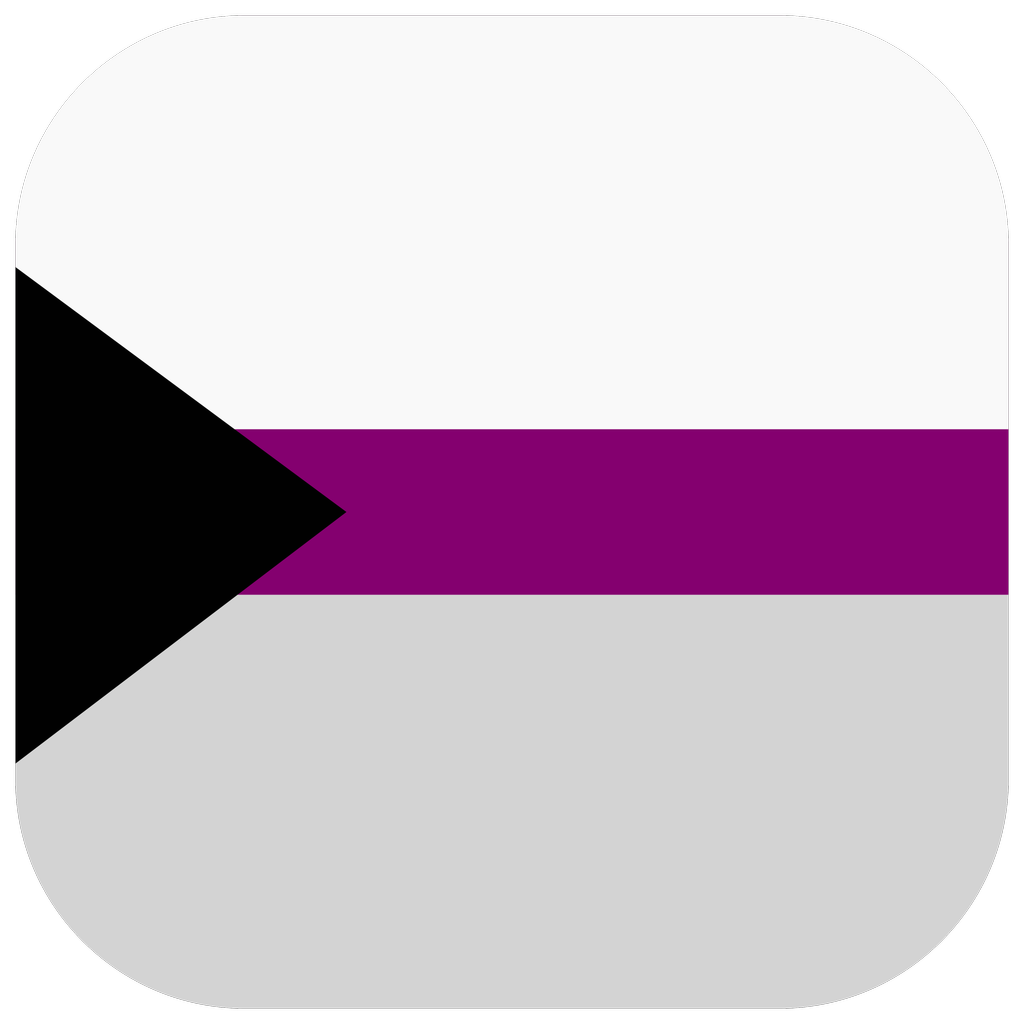
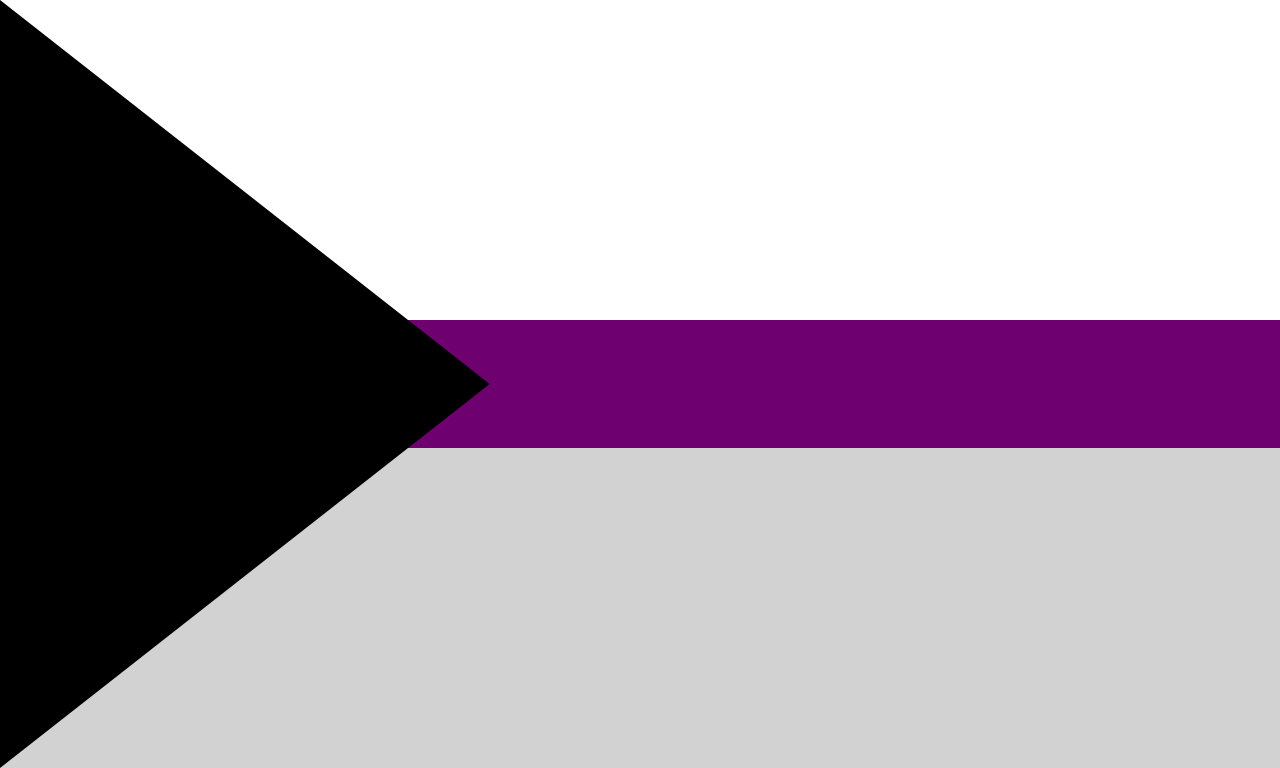
fix(brand): source pride flags from Wikimedia Commons

Changed region(s): [[0.0, 0.0, 1.0, 1.0]]

diff --git a/apps/macos/VerlinPark/Core/FlagCatalog.swift b/apps/macos/VerlinPark/Core/FlagCatalog.swift
@@ -1,8 +1,8 @@
 import AppKit
 import SwiftUI
 
-/// CC0 pride flag artwork from Yellow-Dog-Man/PrideFlags.
-/// `rawValue` is persisted in brand settings; do not rename cases.
+/// Pride flag artwork from Wikimedia Commons.
+/// Per-file attribution and licenses: `docs/PRIDE_FLAGS.md`.
 enum PrideFlag: String, Codable, CaseIterable, Identifiable, Hashable {
     case rainbow
     case progress
@@ -56,9 +56,9 @@ enum PrideFlag: String, Codable, CaseIterable, Identifiable, Hashable {
 
     var assetName: String {
         switch self {
-        case .rainbow: "PrideFlag_Traditional"
+        case .rainbow: "PrideFlag_rainbow"
         case .progress: "PrideFlag_Progress"
-        case .intersexProgress: "PrideFlag_Intersex-InclusiveProgress"
+        case .intersexProgress: "PrideFlag_intersexProgress"
         case .transgender: "PrideFlag_Transgender"
         case .bisexual: "PrideFlag_Bisexual"
         case .lesbian: "PrideFlag_Lesbian"
@@ -77,6 +77,38 @@ enum PrideFlag: String, Codable, CaseIterable, Identifiable, Hashable {
         case .queer: "PrideFlag_Queer"
         case .twoSpirit: "PrideFlag_TwoSpirit"
         }
+    }
+
+    var sourceTitle: String {
+        switch self {
+        case .rainbow: "Gay Pride Flag.svg"
+        case .progress: "LGBTQ+ rainbow flag Quasar \"Progress\" variant.svg"
+        case .intersexProgress: "Intersex-inclusive pride flag.svg"
+        case .transgender: "Transgender Pride flag.svg"
+        case .bisexual: "Bisexual Pride Flag.svg"
+        case .lesbian: "Lesbian Pride Flag 2019.svg"
+        case .nonbinary: "Non-binary Pride Flag.png"
+        case .pansexual: "Pansexual Pride Flag (3-2 aspect ratio).svg"
+        case .asexual: "Asexual Pride Flag.svg"
+        case .aromantic: "Aromantic Pride Flag.svg"
+        case .aroace: "Aroace flag.svg"
+        case .genderfluid: "Genderfluid Flag (Square).png"
+        case .genderqueer: "Genderqueer Pride Flag.svg"
+        case .intersex: "Intersex Pride Flag.svg"
+        case .agender: "Agender pride flag.svg"
+        case .demisexual: "Demisexual Pride Flag.svg"
+        case .polyamory: "Polyamory flag with infinity heart.svg"
+        case .sapphic: "Sapphic pride flag.svg"
+        case .queer: "Queer pride flag.svg"
+        case .twoSpirit: "Two-Spirit Flag.svg"
+        }
+    }
+
+    var sourceURL: URL? {
+        let encoded = sourceTitle.addingPercentEncoding(
+            withAllowedCharacters: .urlPathAllowed
+        ) ?? sourceTitle
+        return URL(string: "https://commons.wikimedia.org/wiki/File:\(encoded)")
     }
 
     var image: NSImage? {

diff --git a/apps/macos/VerlinPark/Features/SettingsView.swift b/apps/macos/VerlinPark/Features/SettingsView.swift
@@ -124,6 +124,10 @@ struct BrandSettingsView: View {
                                 Text("Countries & regions · Pride collection")
                                     .font(.system(size: 9, design: .monospaced))
                                     .foregroundStyle(.secondary)
+                                if let source = brand.config.flag.sourceURL {
+                                    Link("Wikimedia Commons source", destination: source)
+                                        .font(.system(size: 9))
+                                }
                             }
                             Spacer()
                             Button("Choose…") {
@@ -271,7 +275,7 @@ struct FlagPickerView: View {
                 .padding(.vertical, 4)
             }
 
-            Text("Country flags: FlagKit (MIT) · Pride flags: Yellow-Dog-Man/PrideFlags (CC0)")
+            Text("Country flags: FlagKit (MIT) · Pride flags: Wikimedia Commons (see THIRD_PARTY_NOTICES)")
                 .font(.system(size: 8, design: .monospaced))
                 .foregroundStyle(.tertiary)
         }

diff --git a/apps/macos/VerlinParkTests/BrandConfigTests.swift b/apps/macos/VerlinParkTests/BrandConfigTests.swift
@@ -46,7 +46,9 @@ final class BrandConfigTests: XCTestCase {
 
     func testFlagAssetsAreBundled() {
         XCTAssertNotNil(NSImage(named: "US"))
-        XCTAssertNotNil(PrideFlag.progress.image)
-        XCTAssertNotNil(PrideFlag.intersexProgress.image)
+        for flag in PrideFlag.allCases {
+            XCTAssertNotNil(flag.image, "missing pride flag asset: \(flag.assetName)")
+            XCTAssertNotNil(flag.sourceURL)
+        }
     }
 }

diff --git a/apps/macos/VerlinPark/Core/BrandConfig.swift b/apps/macos/VerlinPark/Core/BrandConfig.swift
@@ -30,6 +30,11 @@ enum BrandStyle: String, Codable, CaseIterable, Identifiable {
 enum FlagSelection: Codable, Hashable {
     case country(String)
     case pride(PrideFlag)
+
+    var sourceURL: URL? {
+        guard case let .pride(flag) = self else { return nil }
+        return flag.sourceURL
+    }
 }
 
 struct BrandConfig: Codable, Equatable {

diff --git a/docs/PRIDE_FLAGS.md b/docs/PRIDE_FLAGS.md
@@ -1,0 +1,34 @@
+# Pride flag sources
+
+All pride flag assets are from Wikimedia Commons. Country/region flags are from FlagKit (see [THIRD_PARTY_NOTICES](../THIRD_PARTY_NOTICES.md)).
+
+| Flag | Wikimedia Commons file | Author / credit | License |
+|---|---|---|---|
+| Rainbow | [Gay Pride Flag.svg](https://commons.wikimedia.org/wiki/File:Gay_Pride_Flag.svg) | Guanaco and subsequent editors | Copyrighted free use |
+| Progress Pride | [LGBTQ+ rainbow flag Quasar "Progress" variant.svg](https://commons.wikimedia.org/wiki/File:LGBTQ%2B_rainbow_flag_Quasar_%22Progress%22_variant.svg) | Original Flag: Daniel Quasar SVG: Paul2520 | [CC0](http://creativecommons.org/publicdomain/zero/1.0/deed.en) |
+| Intersex-Inclusive Progress | [Intersex-inclusive pride flag.svg](https://commons.wikimedia.org/wiki/File:Intersex-inclusive_pride_flag.svg) | Nikki | [CC0](http://creativecommons.org/publicdomain/zero/1.0/deed.en) |
+| Transgender | [Transgender Pride flag.svg](https://commons.wikimedia.org/wiki/File:Transgender_Pride_flag.svg) | SVG file Dlloyd based on Monica Helms design | Public domain |
+| Bisexual | [Bisexual Pride Flag.svg](https://commons.wikimedia.org/wiki/File:Bisexual_Pride_Flag.svg) | Michael Page | Public domain |
+| Lesbian | [Lesbian Pride Flag 2019.svg](https://commons.wikimedia.org/wiki/File:Lesbian_Pride_Flag_2019.svg) | Initial SVG file upload by Tmmoney, remade from scratch by AnonMoos. | Public domain |
+| Non-binary | [Non-binary Pride Flag.png](https://commons.wikimedia.org/wiki/File:Non-binary_Pride_Flag.png) | Kye Rowan | [CC0](http://creativecommons.org/publicdomain/zero/1.0/deed.en) |
+| Pansexual | [Pansexual Pride Flag (3-2 aspect ratio).svg](https://commons.wikimedia.org/wiki/File:Pansexual_Pride_Flag_(3-2_aspect_ratio).svg) | Icantthinkofanamexd | Public domain |
+| Asexual | [Asexual Pride Flag.svg](https://commons.wikimedia.org/wiki/File:Asexual_Pride_Flag.svg) | AnonMoos (SVG file); AVEN (flag design) | Public domain |
+| Aromantic | [Aromantic Pride Flag.svg](https://commons.wikimedia.org/wiki/File:Aromantic_Pride_Flag.svg) | Cameron Whimsey | Public domain |
+| Aroace | [Aroace flag.svg](https://commons.wikimedia.org/wiki/File:Aroace_flag.svg) | Original: Jace "Aroaes" Vector: Rummskartoffel | [CC0](http://creativecommons.org/publicdomain/zero/1.0/deed.en) |
+| Genderfluid | [Genderfluid Flag (Square).png](https://commons.wikimedia.org/wiki/File:Genderfluid_Flag_(Square).png) | Yamyamcel | [CC0](http://creativecommons.org/publicdomain/zero/1.0/deed.en) |
+| Genderqueer | [Genderqueer Pride Flag.svg](https://commons.wikimedia.org/wiki/File:Genderqueer_Pride_Flag.svg) | Original: Marilyn Roxie Vector: McLennonSon | Public domain |
+| Intersex | [Intersex Pride Flag.svg](https://commons.wikimedia.org/wiki/File:Intersex_Pride_Flag.svg) | Morgan Carpenter (SVG file simplification by AnonMoos) | Public domain |
+| Agender | [Agender pride flag.svg](https://commons.wikimedia.org/wiki/File:Agender_pride_flag.svg) | Salem Fontana | Public domain |
+| Demisexual | [Demisexual Pride Flag.svg](https://commons.wikimedia.org/wiki/File:Demisexual_Pride_Flag.svg) | Original: Vimopu Vector: AnonMoos | Public domain |
+| Polyamory | [Polyamory flag with infinity heart.svg](https://commons.wikimedia.org/wiki/File:Polyamory_flag_with_infinity_heart.svg) | Opensofias | [CC0](http://creativecommons.org/publicdomain/zero/1.0/deed.en) |
+| Sapphic | [Sapphic pride flag.svg](https://commons.wikimedia.org/wiki/File:Sapphic_pride_flag.svg) | HannahMoss | [CC BY-SA 4.0](https://creativecommons.org/licenses/by-sa/4.0) |
+| Queer | [Queer pride flag.svg](https://commons.wikimedia.org/wiki/File:Queer_pride_flag.svg) | bihetnaomi | [CC0](http://creativecommons.org/publicdomain/zero/1.0/deed.en) |
+| Two-Spirit | [Two-Spirit Flag.svg](https://commons.wikimedia.org/wiki/File:Two-Spirit_Flag.svg) | Dragon401k | [CC BY-SA 4.0](https://creativecommons.org/licenses/by-sa/4.0) |
+
+## Notes
+
+- Wikimedia Commons file pages contain the full attribution and license terms. The table above is a summary.
+- `Public domain` and `CC0` files are used without additional restrictions.
+- `Sapphic` and `Two-Spirit` are CC BY-SA 4.0; attribution is provided above and the license is linked. Those assets remain under CC BY-SA 4.0.
+- `Gay Pride Flag.svg` is listed by Wikimedia Commons as “Copyrighted free use”; see its file page for the exact permission.
+- PNG assets were downloaded as Wikimedia 1024/1280px thumbnails and renamed for the app. No artwork was redrawn.

diff --git a/docs/adr/0013-glass-park-brand.md b/docs/adr/0013-glass-park-brand.md
@@ -13,7 +13,7 @@
 - 视觉：隐藏 titlebar、behind-window blur、thin material、细边框、深色优先；内容区保持较高不透明度。
 - 品牌：`BrandConfig` 支持 displayName、solid/gradient/flag；提供 VerlinPark/Base/Home/Office/Studio/Lab 预设。
 - 国旗：使用 FlagKit（MIT）的 248 个 ISO 国家/地区旗帜资源。
-- Pride：20 面 CC0 PNG 资产（`Yellow-Dog-Man/PrideFlags`），包括 Rainbow、Progress、Intersex-Inclusive Progress、Trans、Bi、Lesbian、Nonbinary、Pan、Ace、Aro、Aroace、Genderfluid、Genderqueer、Intersex、Agender、Demi、Poly、Sapphic、Queer、Two-Spirit。
+- Pride：20 面 Wikimedia Commons 标准旗帜 PNG，包括 Rainbow、Progress、Intersex-Inclusive Progress、Trans、Bi、Lesbian、Nonbinary、Pan、Ace、Aro、Aroace、Genderfluid、Genderqueer、Intersex、Agender、Demi、Poly、Sapphic、Queer、Two-Spirit。每面旗的作者/许可见 `docs/PRIDE_FLAGS.md`。
 - `.app` bundle 名保持 `VerlinPark`；品牌名只影响窗口标题、About、wordmark 和设置。
 - 尊重 Reduce Transparency / Increase Contrast；不为动画牺牲可读性。
 
@@ -26,5 +26,5 @@
 ## 后果
 
 - SwiftUI 外壳基本重写；需要 `BrandStore`、`BrandMark`、FlagPicker。
-- 需要 FlagKit 的 MIT 归属说明。
+- 需要 FlagKit（MIT）和 Wikimedia Commons 旗帜的逐文件归属说明。
 - 未来若支持整包重命名，需要单独的构建/包装方案，不能用运行时字符串改 Dock 名。

diff --git a/THIRD_PARTY_NOTICES.md b/THIRD_PARTY_NOTICES.md
@@ -15,12 +15,14 @@ The full MIT license text is included at
 
 ## Pride flags
 
-- Source: https://github.com/Yellow-Dog-Man/PrideFlags
-- License: CC0 1.0 Universal
-- Usage: 1024px pride flag PNGs in `apps/macos/VerlinPark/Resources/PrideFlags`
-- Copyright: dedicated to the public domain by the project authors
+- Source: Wikimedia Commons
+- Usage: 20 pride flag PNGs in `apps/macos/VerlinPark/Resources/PrideFlags`
+- Per-file source links, authors, and licenses: [docs/PRIDE_FLAGS.md](docs/PRIDE_FLAGS.md)
 
-The full CC0 text is included at
-`apps/macos/VerlinPark/Resources/PrideFlags-LICENSE`.
+Most files are Public Domain or CC0. `Sapphic` and `Two-Spirit` are
+CC BY-SA 4.0 and remain under that license; attribution is recorded in the
+per-file table. `Gay Pride Flag.svg` is listed by Wikimedia Commons as
+“Copyrighted free use”; see its file page for the exact permission.
 
-The country/region flags remain from FlagKit (MIT), described above.
+The flag PNGs are Wikimedia thumbnails, renamed for the app. No pride flag
+artwork was hand-drawn by VerlinPark.

diff --git a/docs/PROGRESS.md b/docs/PROGRESS.md
@@ -13,7 +13,7 @@
 | 毛玻璃 | ✅ | 隐藏 titlebar、behind-window blur、material 面板、深色优先 |
 | 可配置品牌 | ✅ | displayName + 预设；solid / gradient / flag；持久化 |
 | 国家旗 | ✅ | FlagKit v2.5.0，248 个国家/地区（MIT） |
-| Pride 旗 | ✅ | 20 面 CC0 资产：Rainbow/Progress/Intersex-Inclusive Progress/Trans/Bi/Lesbian/NB/Pan/Ace/Aro/Aroace/Genderfluid/Genderqueer/Intersex/Agender/Demi/Poly/Sapphic/Queer/Two-Spirit |
+| Pride 旗 | ✅ | 20 面 Wikimedia Commons 标准资产：Rainbow/Progress/Intersex-Inclusive Progress/Trans/Bi/Lesbian/NB/Pan/Ace/Aro/Aroace/Genderfluid/Genderqueer/Intersex/Agender/Demi/Poly/Sapphic/Queer/Two-Spirit |
 | 四层组织预览 | ✅ | Leader / Managers 3–5 / Workers 2–10 / Labour 3–40；auto-recruit / auto-hire 占位 |
 | Computer Lease 展示 | ✅ | 明确“只串行 GUI/浏览器”，shell/worktree 并行 |
 | Org Preset | ✅ | 本地保存扩编上限、自动扩编开关、预算冻结线（runtime 在 M2） |

diff --git a/README.md b/README.md
@@ -109,6 +109,7 @@ v0.1 is not a full IDE, not a model hub, and not a document workspace. See [docs
 - [Decisions](docs/DECISIONS.md) — locked architectural decisions (ADRs)
 - [Progress](docs/PROGRESS.md) — what actually works today
 - [Third-party notices](THIRD_PARTY_NOTICES.md) — bundled FlagKit assets (MIT)
+- [Pride flag sources](docs/PRIDE_FLAGS.md) — Wikimedia Commons file/author/license table
 
 ## Build and run (M0)
 
